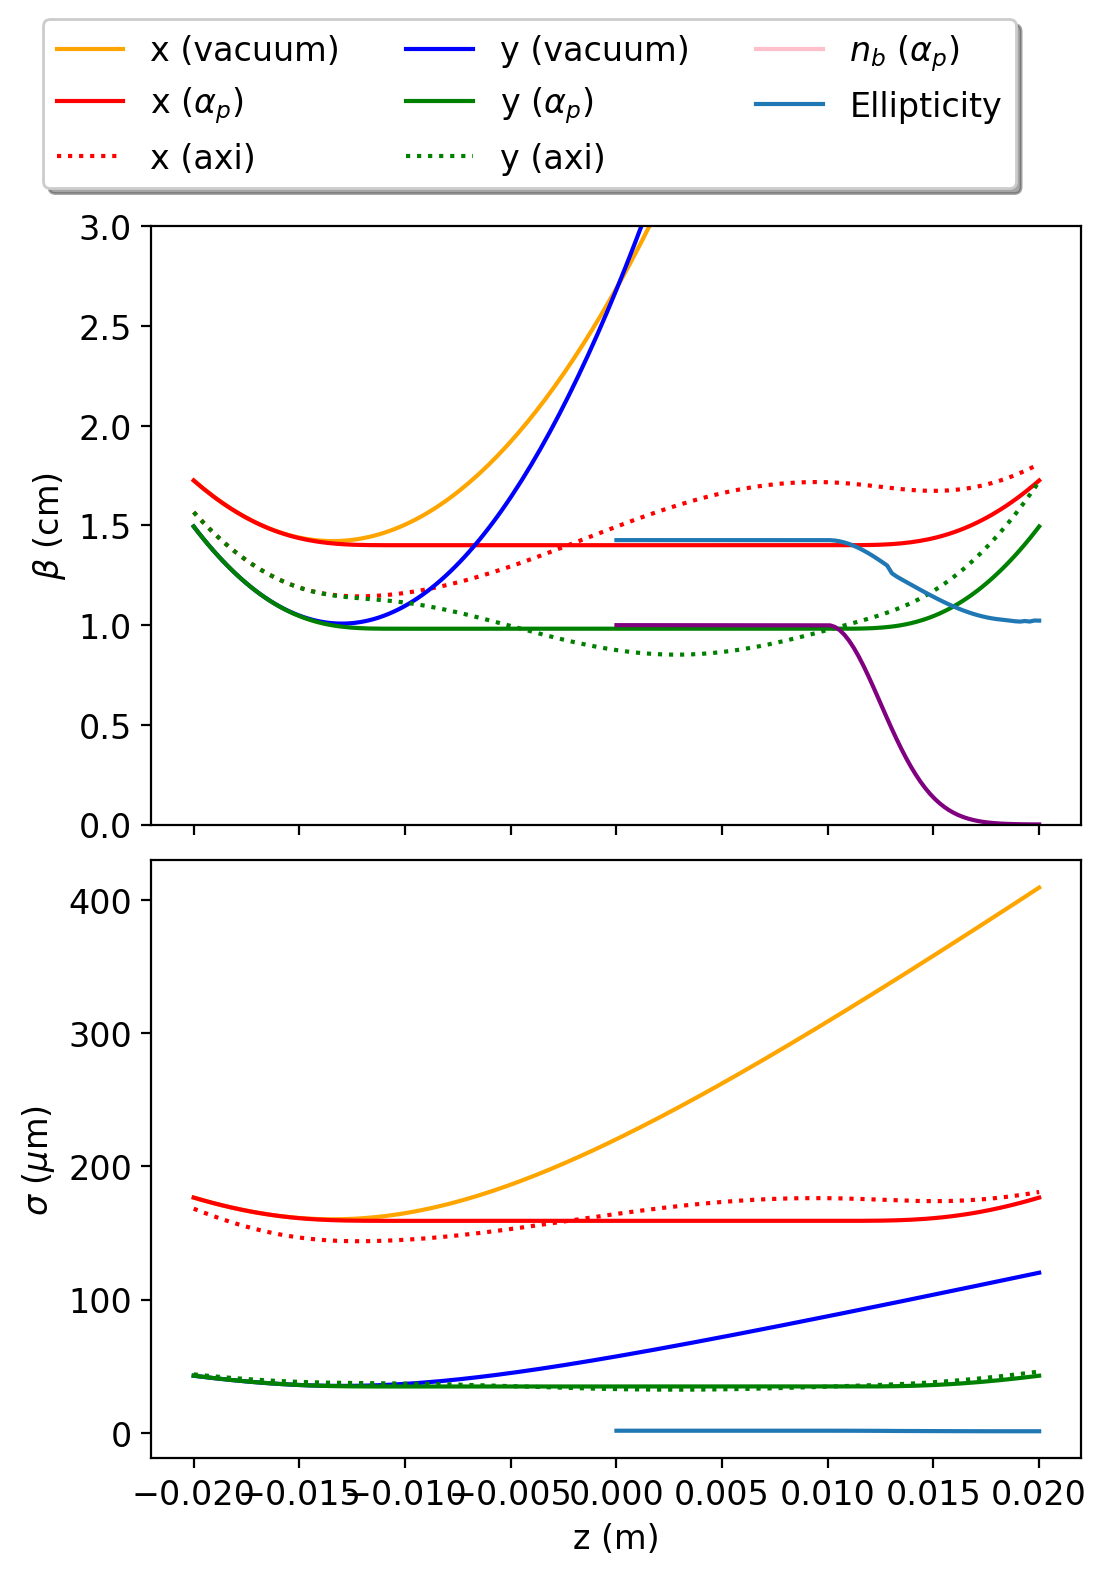
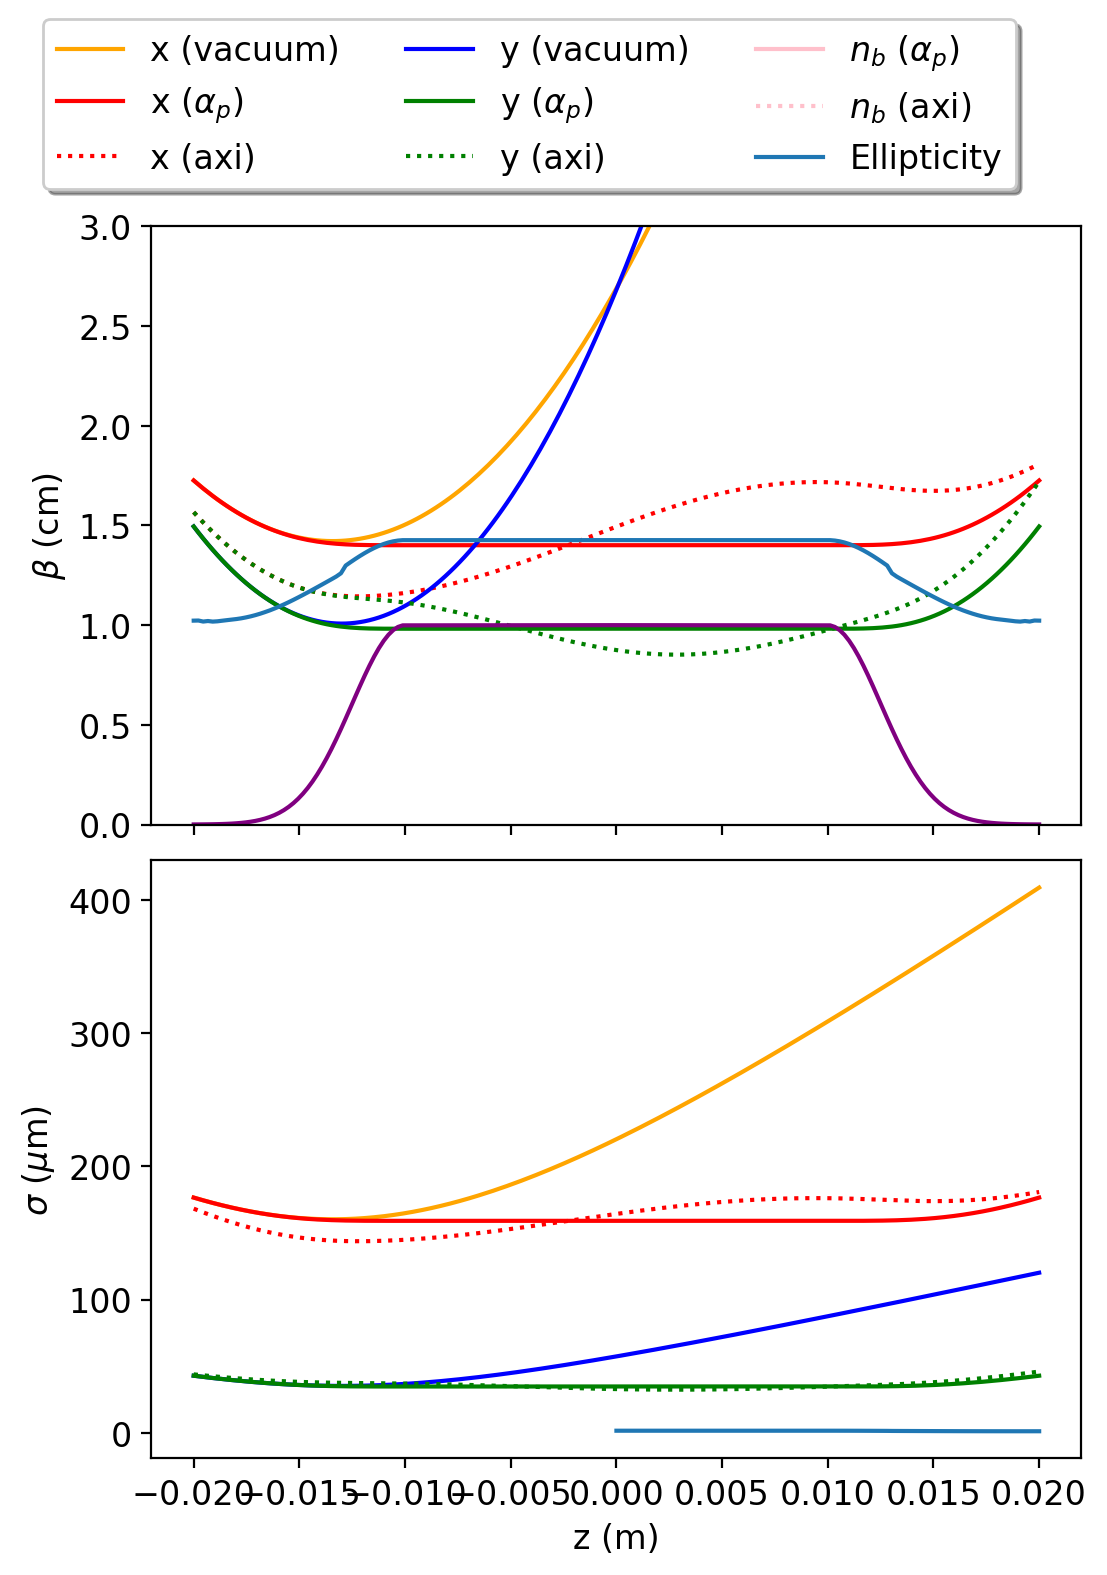
Mirrored array

diff --git a/awa.py b/awa.py
@@ -17,7 +17,7 @@ import matplotlib.patches as patches
 from scipy.interpolate import RectBivariateSpline
 from scipy.stats import norm
 import contextlib
-from scipy.integrate import simps
+from scipy.integrate import simpson
 from scipy.interpolate import CubicSpline
 plt.rcParams['figure.dpi'] =200
 matplotlib.rcParams.update({'font.size': 12})
@@ -236,7 +236,7 @@ sigma_y_wrong_line, = ax1.plot(-zs_drift, sigma_y_wrong*1e6, color='green', line
 density_line, =  ax2.plot(-zs_drift, density_asym,color='pink', label=r'$n_b$ ($\alpha_p$)')
 density_axi_line, =  ax2.plot(-zs_drift, density_axi, color='pink', linestyle='dotted', label=r'$n_b$ (axi)')
 density_line_2, =  ax1.plot([],[], color='pink', label=r'$n_b$ ($\alpha_p$)')
-#density_axi_line_2, =  ax1.plot([],[], color='pink', linestyle='dotted', label=r'$n_b$ (axi)')
+density_axi_line_2, =  ax1.plot([],[], color='pink', linestyle='dotted', label=r'$n_b$ (axi)')
 # Plot density and ellipticity on ax2
 ax1.plot(zs_all, ellipticity_all, label='Ellipticity')
 #ax1.plot(zs_all, density_all, color='purple', label='Density')
@@ -266,8 +266,17 @@ beta_y_drift_line, = ax2.plot(-zs_drift, beta_y_drift*1e2, color='blue', label='
 beta_y_line, = ax2.plot(-zs_drift, beta_y_plasma*1e2, color='green', label='y ($\alpha_p$)')
 
 beta_y_wrong_line, = ax2.plot(-zs_drift, beta_y_plasma_wrong*1e2, color='green', linestyle='dotted', label='y (axi)')
-ax2.plot(zs_all, ellipticity_all, label='Ellipticity')
-ax2.plot(zs_all, density, color='purple', label='Plasma density')
+# Mirror the arrays
+zs_all = np.array(zs_all)
+ellipticity_all = np.array(ellipticity_all)
+density = np.array(density)
+zs_all_full = np.concatenate([-zs_all[::-1], zs_all])
+ellipticity_all_full = np.concatenate([ellipticity_all[::-1], ellipticity_all])
+density_full = np.concatenate([density[::-1], density])  # if symmetric
+
+# Plot
+ax2.plot(zs_all_full, ellipticity_all_full, label='Ellipticity')
+ax2.plot(zs_all_full, density_full, color='purple', label='Plasma density')
 
 # Plot density and ellipticity on ax2
 #ax2.plot(density, ellipticity_all, color='purple', label='Ellipticity')

diff --git a/awa_from_start.py b/awa_from_start.py
@@ -17,7 +17,7 @@ import matplotlib.patches as patches
 from scipy.interpolate import RectBivariateSpline
 from scipy.stats import norm
 import contextlib
-from scipy.integrate import simps
+from scipy.integrate import simpson
 from scipy.interpolate import CubicSpline
 plt.rcParams['figure.dpi'] =200
 matplotlib.rcParams.update({'font.size': 12})
@@ -67,8 +67,9 @@ zs_drift = np.linspace(zs.min(),zs.max(),points)
 density_pic=[]
 for z in zs_drift:
     density_pic.append(pf.plasma_density(z,model,plasma_upramp_end,sigma,length))
-#zs_drift_2 = np.linspace(zs.max(),zs.min(),points)
-#solution = odeint(pf.ode_plasma_estimate_ellipticity, initial_conditions, zs_drift,  args=(model, plasma_upramp_end, sigma, length, n_pe, gamma_b, ellipticity_interpolator, min_density))
+
+zs_drift_2 = np.linspace(zs.max(),zs.min(),points)
+solution = odeint(pf.ode_plasma_estimate_ellipticity, initial_conditions, zs_drift,  args=(model, plasma_upramp_end, sigma, length, n_pe, gamma_b, ellipticity_interpolator, min_density))
 solution_axi = odeint(pf.ode_plasma, initial_conditions_axi, zs_drift,  args=(model, plasma_upramp_end, sigma, length, n_pe, gamma_b,1))
 #beta_x= solution[:,0]
 #beta_y = solution[:,2]

diff --git a/prediction_functions.py b/prediction_functions.py
@@ -16,7 +16,7 @@ from scipy.interpolate import interp1d
 import matplotlib.patches as patches
 from scipy.interpolate import RectBivariateSpline
 from scipy.stats import norm
-from scipy.integrate import simps
+from scipy.integrate import simpson
 from scipy.integrate import odeint
 def Kr(gamma):
     return 1/(2*gamma)
